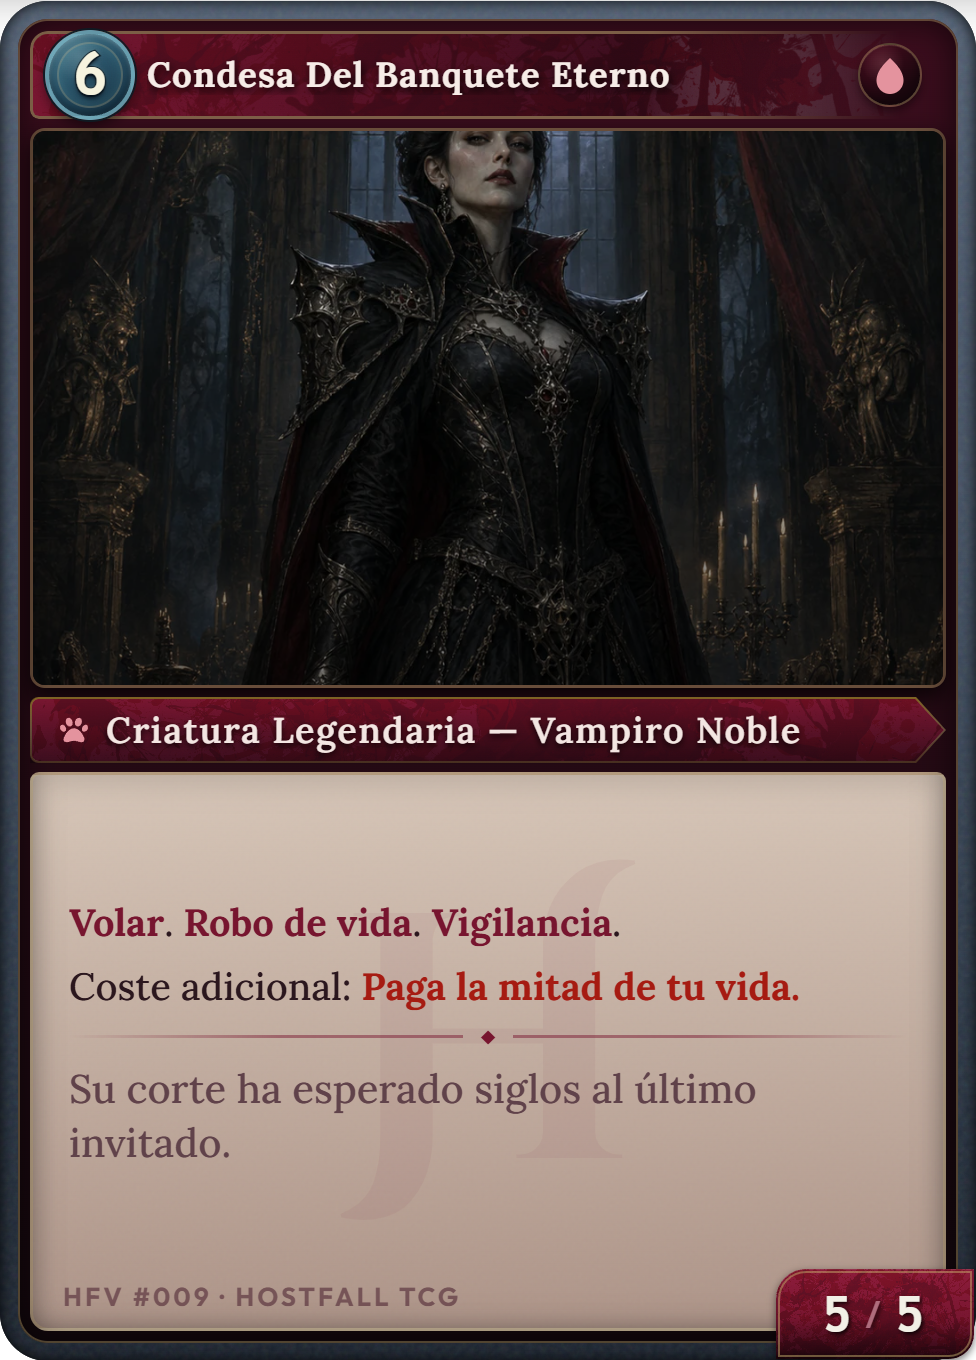
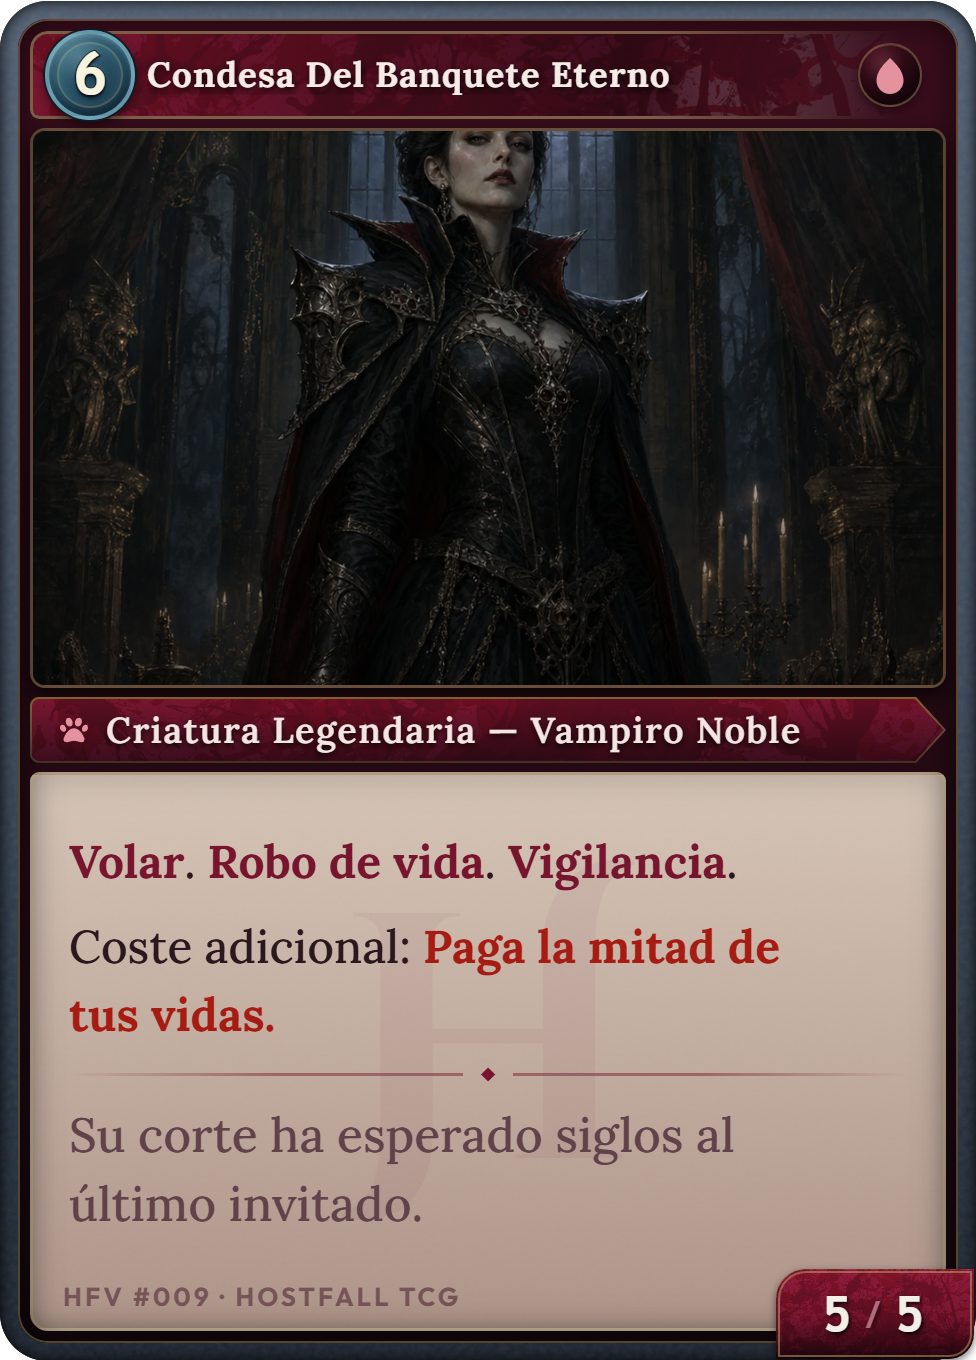
fixes 1

Changed region(s): [[0.0615, 0.6176, 0.8299, 0.8956], [0.9836, 0.0, 1.0, 0.0309], [0.0, 0.0, 0.0307, 0.0309]]

diff --git a/tests/deckCardText.test.js b/tests/deckCardText.test.js
@@ -36,14 +36,17 @@ test("deck card text consistently highlights gameplay terms and separates abilit
     "Coste adicional: Paga 5 vidas.\nRoba 2 cartas.",
   );
   const fractionalLifeCost = formatEffectText(
-    "Coste adicional: Paga la mitad de tu vida.",
+    "Coste adicional: Paga la mitad de tus vidas.",
   );
   const inlineKeywords = formatEffectText(
-    "Volar. Robo de vida. Vigilancia.\nCoste adicional: Paga la mitad de tu vida.",
+    "Volar. Robo de vida. Vigilancia.\nCoste adicional: Paga la mitad de tus vidas.",
   );
   const acolyteCost = formatEffectText(
-    "{{T}}: Paga 5 vidas. Genera 1 de Energía.",
-    { tapIconHtml: '<span class="tap-icon"></span>' },
+    "{{T}}: Paga 5 vidas. Agrega {G}.",
+    {
+      tapIconHtml: '<span class="tap-icon"></span>',
+      energyIconHtml: '<span class="energy-icon"></span>',
+    },
   );
 
   assert.match(captain, /class="effect-keyword">Toque mortal<\/strong>/);
@@ -67,7 +70,7 @@ test("deck card text consistently highlights gameplay terms and separates abilit
   assert.equal((lifeCost.match(/class="effect-paragraph"/g) ?? []).length, 2);
   assert.match(
     fractionalLifeCost,
-    /Coste adicional: <strong class="effect-life-cost">Paga la mitad de tu vida\.<\/strong>/,
+    /Coste adicional: <strong class="effect-life-cost">Paga la mitad de tus vidas\.<\/strong>/,
   );
   assert.match(
     inlineKeywords,
@@ -75,6 +78,7 @@ test("deck card text consistently highlights gameplay terms and separates abilit
   );
   assert.equal((inlineKeywords.match(/class="effect-paragraph"/g) ?? []).length, 2);
   assert.match(acolyteCost, /<span class="tap-icon"><\/span>: <strong class="effect-life-cost">Paga 5 vidas\.<\/strong>/);
+  assert.match(acolyteCost, /Agrega <span class="energy-icon"><\/span>\./);
   assert.equal((acolyteCost.match(/class="effect-paragraph"/g) ?? []).length, 2);
 });
 

diff --git a/dev/tools/Decks/deck-card-studio.css b/dev/tools/Decks/deck-card-studio.css
@@ -629,7 +629,25 @@ input {
 }
 
 .symbol-energy {
+    border: 3px solid rgba(137, 198, 213, 0.66);
     border-radius: 50%;
+    color: #dceff0;
+    background:
+        radial-gradient(circle at 36% 27%, rgba(213, 239, 242, 0.18), transparent 32%),
+        linear-gradient(145deg, #47788a 0%, #285166 48%, #142c3c 100%);
+    box-shadow:
+        inset 0 1px 2px rgba(222, 245, 247, 0.24),
+        inset 0 -3px 5px rgba(3, 17, 28, 0.48),
+        0 3px 7px rgba(0, 0, 0, 0.42);
+    font-size: 29px;
+    text-shadow: 0 1px 2px rgba(3, 16, 27, 0.95);
+}
+
+.symbol-badge > svg {
+    display: block;
+    width: 30px;
+    height: 30px;
+    fill: currentColor;
 }
 
 .tcg-divider {
@@ -2428,11 +2446,6 @@ body[data-theme="vampires"] .symbol-badge {
     transform: translateY(-5px);
 }
 
-body[data-theme="vampires"] .symbol-tap .fa-hourglass-half {
-    color: inherit;
-    font-size: 27px;
-}
-
 body[data-theme="vampires"] .tcg-divider {
     width: 100%;
     height: 3px;
@@ -2477,16 +2490,6 @@ body[data-theme="vampires"] .tcg-flavor {
 body[data-theme="vampires"] .tcg-card[data-card-id="eternal_feast_countess"] .tcg-body {
     gap: 12px;
     padding: 22px 36px 58px;
-}
-
-body[data-theme="vampires"] .tcg-card[data-card-id="eternal_feast_countess"] .tcg-effect {
-    font-size: 38px;
-    line-height: 1.32;
-}
-
-body[data-theme="vampires"] .tcg-card[data-card-id="eternal_feast_countess"] .tcg-flavor {
-    font-size: 40px;
-    line-height: 1.35;
 }
 
 body[data-theme="vampires"] .tcg-footer-info {

diff --git a/dev/tools/Decks/deck-card-studio.js b/dev/tools/Decks/deck-card-studio.js
@@ -39,9 +39,9 @@
     function formatEffectText(value) {
         return cardText.formatEffectText(value, {
             tapIconHtml:
-                '<span class="symbol-badge symbol-tap" title="Agotar / Activar"><i class="fa-solid fa-hourglass-half" aria-hidden="true"></i></span>',
+                '<span class="symbol-badge symbol-tap" title="Agotar / Activar"><svg aria-hidden="true" viewBox="0 0 24 24"><path d="M6 2h12v4c0 2.4-1.3 4.2-4 6 2.7 1.8 4 3.6 4 6v4H6v-4c0-2.4 1.3-4.2 4-6-2.7-1.8-4-3.6-4-6V2Zm2 2v2c0 1.7 1.1 3 4 4.9 2.9-1.9 4-3.2 4-4.9V4H8Zm4 9.1C9.1 15 8 16.3 8 18v2h8v-2c0-1.7-1.1-3-4-4.9Z"/></svg></span>',
             energyIconHtml:
-                '<span class="symbol-badge symbol-energy" title="Energía">ϟ</span>',
+                '<span class="symbol-badge symbol-energy" title="Energía"><svg aria-hidden="true" viewBox="0 0 24 24"><path d="M13 2 3 14h9l-1 8 10-12h-9l1-8Z"/></svg></span>',
         });
     }
 

diff --git a/dev/tools/Decks/vampires/index.html b/dev/tools/Decks/vampires/index.html
@@ -79,7 +79,7 @@
             "costo": 1,
             "atk": 1,
             "def": 2,
-            "desc": "{{T}}: Paga 5 vidas. Genera 1 de Energía.",
+            "desc": "{{T}}: Paga 5 vidas. Agrega {G}.",
             "lore": "La corte acepta toda moneda, especialmente la que duele.",
             "cantidad": 2
           },
@@ -139,7 +139,7 @@
             "costo": 6,
             "atk": 5,
             "def": 5,
-            "desc": "Volar. Robo de vida. Vigilancia.\nCoste adicional: Paga la mitad de tu vida.",
+            "desc": "Volar. Robo de vida. Vigilancia.\nCoste adicional: Paga la mitad de tus vidas.",
             "lore": "Su corte ha esperado siglos al último invitado.",
             "cantidad": 2
           },

diff --git a/dev/tools/Decks/deck-card-text.js b/dev/tools/Decks/deck-card-text.js
@@ -10,7 +10,7 @@
     const STAT_PATTERN = /[+-]\d+\/[+-]\d+/g;
     const DANGER_PATTERN = /\b(?:fuerza \d+ o menos|\d+ de daño)\b/giu;
     const LIFE_PAYMENT_PATTERN =
-        /\bPaga\s+(?:\d+\s+vidas|la mitad de tu vida)\./giu;
+        /\bPaga\s+(?:\d+\s+vidas|la mitad de tus vidas)\./giu;
     const INLINE_KEYWORD_SEPARATOR_PATTERN =
         /(\b(?:Volar|Robo de vida|Vigilancia)\.)\s+(?=(?:Volar|Robo de vida|Vigilancia)\.)/giu;
     const SEQUENTIAL_EFFECT_BREAK_PATTERN =

diff --git a/CLAUDE.MD b/CLAUDE.MD
@@ -681,7 +681,9 @@ Cuando una carta target valida queda debajo del fade, usualmente el problema es 
   `lifeCostAmount` lo calcula contra la vida justo antes de pagar: con 11 paga 6 y queda en 5.
   Sigue respetando la regla de conservar al menos 1 vida, y el pago dinamico dispara las mismas
   reacciones y beats de presentacion que los pagos numericos. La carta omite el redondeo para
-  mantener el texto corto; el estudio imprime `Volar. Robo de vida. Vigilancia.` en una sola linea.
+  mantener el texto corto; imprime `Paga la mitad de tus vidas.` y el estudio mantiene
+  `Volar. Robo de vida. Vigilancia.` en una sola linea. Usa el tamano normal del texto de Vampiros;
+  solamente conserva espaciado compacto para que toda la caja respire.
 - Impulso Carmesi es Instant `{1}` con `Coste adicional: Paga 2 vidas.` en una sola linea: solo puede elegir una criatura
   aliada y le da +2/+2 y `FLYING` hasta fin de turno, de modo que tambien puede convertirla en
   bloqueador de voladores durante el combate de la Horda. `castCard` valida cada objetivo contra
@@ -719,7 +721,8 @@ Cuando una carta target valida queda debajo del fade, usualmente el problema es 
   de la faccion; umbrales `fuerza N o menos` y cantidades `N de dano` se resaltan en rojo. Cada
   frase explicita `Paga N vidas.` tambien se imprime en rojo y negrita. En Vampiros, los spells con
   pago adicional mantienen `Coste adicional: Paga N vidas.` en una sola linea y separan el efecto; Acólito usa
-  `{{T}}: Paga 5 vidas. Genera 1 de Energía.` para mostrar primero el icono de agotar.
+  `{{T}}: Paga 5 vidas. Agrega {G}.` para mostrar primero el icono de agotar y luego el mismo
+  orbe azul de Energia que usan los Druidas del deck verde.
   Cada
   oracion/habilidad ocupa su propio parrafo y los efectos secuenciales unidos por `y luego
   crea/lucha` tambien se separan. Una causa y su consecuencia directa permanecen juntas: Noosegraf
